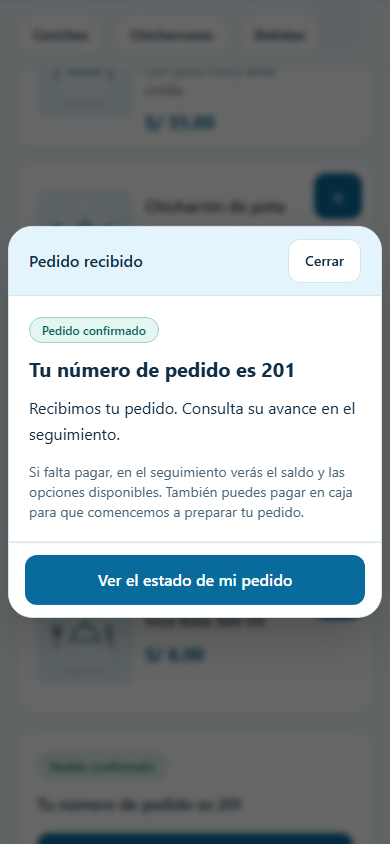
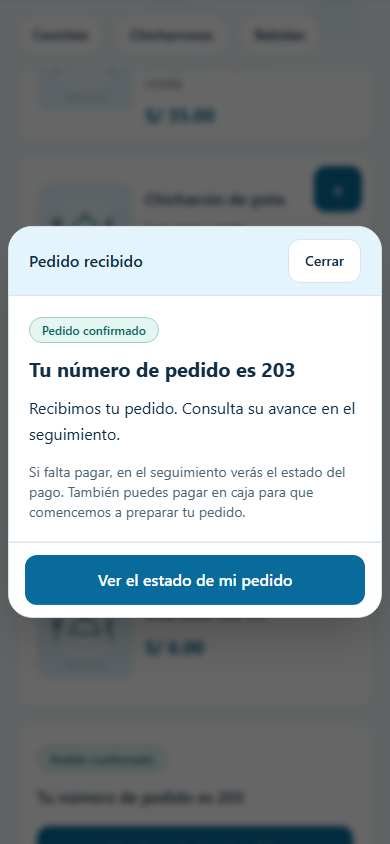
US-127: ajustar aviso de pago, foco y segundo pedido

diff --git a/tests/e2e/seguimiento-confirmacion.spec.ts b/tests/e2e/seguimiento-confirmacion.spec.ts
@@ -1,11 +1,11 @@
 import { expect } from "@playwright/test";
-import { test, prepararCarrito, pedidosPropios, TOKEN_MOSTRADOR } from "./ayuda";
+import { test, prepararCarrito, pedidosPropios, TOKEN_MOSTRADOR, TOKEN_MESA, RESTAURANTE, type EntornoPedido } from "./ayuda";
+import { StockPrueba } from "../soporte/stock-prueba";
 
 test.use({ viewport: { width: 390, height: 844 }, isMobile: true, hasTouch: true });
 
-for (const doble of [false, true]) {
-  test(`US-127: ${doble ? "dos toques" : "confirmar"} deja el seguimiento a un toque sin repetir alergias`, async ({ page, pedido }, testInfo) => {
-    pedido.alLimpiar(async () => {
+function limpiarPedidosPropios(pedido: EntornoPedido) {
+  pedido.alLimpiar(async () => {
       for (const propio of await pedidosPropios(pedido.admin, pedido.marca)) {
         if (propio.status === "CANCELLED") continue;
         const cancelacion = await pedido.admin.rpc("cambiar_estado_pedido", {
@@ -15,7 +15,12 @@ for (const doble of [false, true]) {
         expect(cancelacion.error).toBeNull();
       }
       expect((await pedidosPropios(pedido.admin, pedido.marca)).every(p => p.status === "CANCELLED")).toBe(true);
-    });
+  });
+}
+
+for (const doble of [false, true]) {
+  test(`US-127: ${doble ? "dos toques" : "confirmar"} deja el seguimiento a un toque sin repetir alergias`, async ({ page, pedido }, testInfo) => {
+    limpiarPedidosPropios(pedido);
     const carrito = await prepararCarrito(page, TOKEN_MOSTRADOR, pedido);
     const confirmar = carrito.getByRole("button", { name: "Confirmar pedido", exact: true });
     const caja = await confirmar.boundingBox();
@@ -62,5 +67,48 @@ for (const doble of [false, true]) {
       .getByText("Esperando pago. Paga en caja o con tarjeta para que comencemos a preparar tu pedido.", { exact: true })).toBeVisible();
     await expect(page.getByText("¿Alguien tiene alergias?", { exact: true })).toHaveCount(0);
     await expect.poll(async () => (await pedidosPropios(pedido.admin, pedido.marca)).length).toBe(1);
+  });
+}
+
+for (const enMesa of [false, true]) {
+  test(`US-127: cerrar la confirmación y armar otro pedido ${enMesa ? "en mesa" : "para llevar"} reinicia las alergias`, async ({ page, pedido }) => {
+    limpiarPedidosPropios(pedido);
+    const primero = await pedido.prepararStock();
+    const otro = await pedido.admin.from("products").select("id,name,categories!inner(active)")
+      .eq("restaurant_id", RESTAURANTE).eq("active", true).eq("available", true).eq("categories.active", true)
+      .neq("id", primero.id).order("price").order("id").limit(1).single();
+    expect(otro.error).toBeNull();
+    expect(otro.data).not.toBeNull();
+    const stockOtro = new StockPrueba(RESTAURANTE);
+    pedido.alLimpiar(() => stockOtro.restaurar());
+    await stockOtro.preparar(otro.data!.id, 1);
+    if (enMesa) await pedido.abrirMesa();
+    const carrito = await prepararCarrito(page, enMesa ? TOKEN_MESA : TOKEN_MOSTRADOR, pedido);
+    await carrito.getByRole("button", { name: "Sí", exact: true }).click();
+    await carrito.getByLabel("Maní", { exact: true }).check();
+    await carrito.getByLabel(/^Entiendo que la cocina/).check();
+    await carrito.getByRole("button", { name: "Confirmar pedido", exact: true }).click();
+    await expect(carrito.getByText(/^Tu número de pedido es \d+$/)).toBeVisible();
+    await expect(carrito.getByRole("group", { name: "¿Alguien tiene alergias?" })).toHaveCount(0);
+    await carrito.getByRole("button", { name: "Cerrar", exact: true }).click();
+    await expect(carrito).not.toBeVisible();
+    const seguimientoPagina = page.getByRole("link", { name: "Ver el estado de mi pedido", exact: true });
+    await expect(seguimientoPagina).toBeFocused();
+    await expect(seguimientoPagina).toBeVisible();
+    // Se arma el segundo pedido en la misma visita, sin recargar ni navegar:
+    // una recarga ocultaría un posible fallo al reiniciar el estado de alergias.
+    await page.getByRole("button", { name: `Agregar ${otro.data!.name} al carrito`, exact: true }).click();
+    await page.getByRole("button", { name: /^Ver carrito:/ }).click();
+    const nuevoCarrito = page.getByRole("dialog", { name: "Tu carrito", exact: true });
+    await expect(nuevoCarrito.getByRole("heading", { name: otro.data!.name, exact: true })).toBeVisible();
+    const alergias = nuevoCarrito.getByRole("group", { name: "¿Alguien tiene alergias?", exact: true });
+    await alergias.scrollIntoViewIfNeeded();
+    await expect(alergias).toBeVisible();
+    await expect(alergias.getByRole("button", { name: "No", exact: true })).toHaveAttribute("aria-pressed", "false");
+    await expect(alergias.getByRole("button", { name: "Sí", exact: true })).toHaveAttribute("aria-pressed", "false");
+    await expect(nuevoCarrito.getByRole("button", { name: "Confirmar pedido", exact: true })).toBeVisible();
+    await expect(nuevoCarrito.getByRole("button", { name: "Confirmar pedido", exact: true })).toBeDisabled();
+    await expect(nuevoCarrito.getByText(/^Tu número de pedido es \d+$/)).toHaveCount(0);
+    expect(await pedidosPropios(pedido.admin, pedido.marca)).toHaveLength(1);
   });
 }

diff --git a/src/features/pedidos/panel-carrito.tsx b/src/features/pedidos/panel-carrito.tsx
@@ -20,6 +20,7 @@ type Props = Omit<ComponentProps<typeof Carrito>, "enPanel"> & {
   resultado: ResultadoRegistroPedido | null;
   seguimientoHref?: string | null;
   onConfirmar: () => void;
+  onCerrarConfirmado?: () => void;
   alergia: AlergiaFormulario;
   onAlergia: (alergia: AlergiaFormulario) => void;
   // US-002: selector de modalidad y datos para llevar.
@@ -160,6 +161,9 @@ export function PanelCarrito(props: Props) {
       <dialog
         id="panel-carrito"
         ref={dialogo}
+        onClose={() => {
+          if (confirmado) props.onCerrarConfirmado?.();
+        }}
         aria-labelledby="carrito-titulo"
         className="fixed inset-x-0 top-[var(--carrito-centro,50%)] bottom-auto m-0 mx-auto max-h-[calc(var(--carrito-alto,100dvh)-1rem)] w-[calc(100%-1rem)] max-w-2xl -translate-y-1/2 overflow-hidden rounded-3xl border border-borde bg-superficie p-0 text-texto shadow-2xl backdrop:bg-black/60"
       >
@@ -185,7 +189,7 @@ export function PanelCarrito(props: Props) {
                   <p>Recibimos tu pedido. Consulta su avance en el seguimiento.</p>
                 </div>
                 <p className="text-sm text-texto-suave">
-                  Si falta pagar, en el seguimiento verás el saldo y las opciones disponibles.
+                  Si falta pagar, en el seguimiento verás el estado del pago.
                   También puedes pagar en caja para que comencemos a preparar tu pedido.
                 </p>
               </div>

diff --git a/src/features/carta/carta-interactiva.tsx b/src/features/carta/carta-interactiva.tsx
@@ -77,6 +77,7 @@ export function CartaInteractiva({
     null,
   );
   const dialogo = useRef<HTMLDialogElement>(null);
+  const enlacePedidoConfirmado = useRef<HTMLAnchorElement>(null);
 
   const [items, setItems] = useState<ItemCarrito[]>([]);
   const [enviando, setEnviando] = useState(false);
@@ -517,6 +518,7 @@ export function CartaInteractiva({
           ? `/m/${encodeURIComponent(token)}/pedido/${encodeURIComponent(claveConfirmada)}`
           : null}
         onConfirmar={confirmar}
+        onCerrarConfirmado={() => enlacePedidoConfirmado.current?.focus()}
         alergia={alergia}
         onAlergia={(valor) => cambiarOpciones(() => setAlergia(valor))}
         faltaDato={faltaDato}
@@ -553,6 +555,7 @@ export function CartaInteractiva({
 
           {claveConfirmada && (
             <BotonEnlace
+              ref={enlacePedidoConfirmado}
               href={`/m/${encodeURIComponent(token)}/pedido/${encodeURIComponent(claveConfirmada)}`}
               variante="primario"
               className="mt-4 w-full"

diff --git a/tests/unit/seguimiento-confirmacion.test.ts b/tests/unit/seguimiento-confirmacion.test.ts
@@ -29,7 +29,8 @@ describe("US-127: seguimiento después de confirmar", () => {
   it("explica dónde consultar el pago sin afirmar que el pedido está pagado", () => {
     const html = renderToStaticMarkup(createElement(PanelCarrito, props));
     expect(html).toContain("Si falta pagar");
-    expect(html).toContain("saldo y las opciones disponibles");
+    expect(html).toContain("estado del pago");
+    expect(html).not.toContain("verás el saldo");
     expect(html).toContain("pagar en caja");
   });
 

diff --git a/docs/pruebas/evidencias/us127-validacion.md b/docs/pruebas/evidencias/us127-validacion.md
@@ -11,13 +11,16 @@ usa el token y la misma clave de idempotencia del pedido confirmado para abrir
 `/m/[token]/pedido/[clave]` a un toque, sin cerrar antes el carrito ni buscarlo con scroll.
 
 La vista de éxito no muestra modalidad, productos ni preguntas de alergias del pedido
-ya enviado. Indica que el seguimiento permite consultar el saldo y las opciones de
-pago, y que también se puede pagar en caja. La página existente conserva la línea de
+ya enviado. Indica que el seguimiento permite consultar el estado del pago y que
+también se puede pagar en caja. No promete mostrar un saldo cuando no hay medios
+de pago configurados. La página existente conserva la línea de
 tiempo de US-092 y su mensaje de pago pendiente.
 
 Se mantienen **Cerrar** y el enlace exterior para el recorrido anterior. Agregar desde
 el detalle sigue dejándolo abierto; no se reintroduce la apertura automática del carrito.
 Se retiró el prop `dialogoRef` sin consumidores; el carrito conserva su referencia interna.
+Al cerrar la vista de éxito, el foco pasa al enlace de seguimiento de la tarjeta
+exterior, en lugar de intentar volver al botón Ver carrito que ya no existe.
 
 ## Criterios y resultados
 
@@ -28,6 +31,8 @@ Se retiró el prop `dialogoRef` sin consumidores; el carrito conserva su referen
 | No repetir alergias | Unitaria y E2E: formulario ausente tras confirmar y en seguimiento | Aprobado |
 | Mostrar cómo pagar si falta | Unitaria: orientación en la confirmación; E2E: Esperando pago e instrucciones de caja/tarjeta en el ticket existente | Aprobado; sin ejecutar pagos |
 | Evitar duplicados | E2E: dos toques reales consecutivos, exactamente un pedido antes y después de navegar | Aprobado |
+| Foco al cerrar la confirmación | E2E: Cerrar devuelve el foco al enlace exterior de seguimiento, visible en la página | Aprobado en mesa y para llevar |
+| Segundo pedido en la misma visita | E2E: agregar otro plato sin recargar, abrir carrito, alergias sin respuesta y Confirmar visible/deshabilitado | Aprobado en mesa y para llevar |
 
 ## Validaciones finales
 
@@ -35,9 +40,11 @@ Se retiró el prop `dialogoRef` sin consumidores; el carrito conserva su referen
 - `npm run typecheck`: aprobado.
 - `npm test`: **1445/1445**, 90 archivos; cuatro casos nuevos de US-127.
 - `npm run build`: aprobado, restaurando la compilación con la configuración habitual.
-- Playwright, solo `tests/e2e/seguimiento-confirmacion.spec.ts`: **2/2** en Chromium,
-  confirmación normal y doble toque. Ambos revisan **360×640, 390×844 y 1440×900**.
-- No se editaron pruebas existentes ni `tests/e2e/ayuda.ts`.
+- Playwright, solo `tests/e2e/seguimiento-confirmacion.spec.ts`: **4/4** en Chromium.
+  Confirmación normal y doble toque revisan **360×640, 390×844 y 1440×900**.
+  Los dos casos del segundo pedido, mesa y para llevar, se ejecutan a **390×844**.
+- Se actualizó la comprobación del texto de pago de US-127 y se amplió su E2E.
+  No se modificaron pruebas de otras historias ni `tests/e2e/ayuda.ts`.
 
 La primera ejecución detectó un selector ambiguo del mensaje de pago (aparece en el
 anuncio accesible y en el ticket); el selector de la prueba nueva se acotó al ticket.
@@ -46,7 +53,25 @@ cancelación, aunque la captura mostraba el pedido cancelado. Las pruebas nuevas
 usan el mecanismo `alLimpiar` existente para cancelar sus propios pedidos mediante
 `cambiar_estado_pedido`, con el usuario normal autenticado, verifican `CANCELLED` y
 dejan que el fixture existente restaure el stock. Las dos ejecuciones finales de la
-selección E2E terminaron en verde; la última incluye los tres tamaños y las capturas.
+selección E2E inicial terminaron en verde. Tras la revisión se ejecutó la selección
+ampliada con cuatro casos, también en verde, y se actualizaron las capturas.
+
+## Revisión de US-127
+
+El equipo comunicó que el E2E completo del PR anterior terminó con 23 aprobadas,
+0 fallidas y 1 omitida. Ese resultado es comunicado, no una ejecución completa
+repetida en esta máquina después de estos ajustes.
+
+Se corrigieron tres observaciones: mensaje neutral sobre el estado de pago,
+retorno de foco al cerrar la confirmación y cobertura del segundo carrito en la
+misma visita. El primer pedido declara alergia Sí; después de cerrar la confirmación
+se agrega otro producto sin navegar ni recargar. Las respuestas No/Sí aparecen
+sin seleccionar, no queda el mensaje de éxito anterior y Confirmar vuelve a estar
+deshabilitado hasta completar los datos. No se registra ese segundo pedido.
+
+La variante en mesa abre y cierra exclusivamente la sesión creada por el fixture
+en Supabase local. Los pedidos propios se cancelan y se restauran los stocks de
+los dos productos usados por cada caso.
 
 ## Entorno y límites
 

diff --git a/docs/pruebas/matriz-trazabilidad.md b/docs/pruebas/matriz-trazabilidad.md
@@ -112,7 +112,7 @@ Asignación y títulos confirmados por el equipo para Sprint 3 (30/10–01/11/20
 
 | Historia | Título | Responsable | Archivo(s)/caso(s) | Nivel | Cantidad | Resultado | Evidencia |
 |---|---|---|---|---|---|---|---|
-| US-127 | Ir al seguimiento después de confirmar el pedido | Erick | `tests/unit/seguimiento-confirmacion.test.ts`; `tests/e2e/seguimiento-confirmacion.spec.ts` | Unitaria / E2E Chromium con Supabase local | 4 unitarios propios; 2 E2E, cada uno a 360×640, 390×844 y 1440×900 | Aprobado: acceso a un toque sin scroll, línea de tiempo existente, orientación de pago, sin repetir alergias y doble toque con un solo pedido. Suite 1445/1445; lint, tipos y build aprobados. Sin migración ni cambios en la base compartida | [Validación US-127](evidencias/us127-validacion.md) |
+| US-127 | Ir al seguimiento después de confirmar el pedido | Erick | `tests/unit/seguimiento-confirmacion.test.ts`; `tests/e2e/seguimiento-confirmacion.spec.ts` | Unitaria / E2E Chromium con Supabase local | 4 unitarios propios; 4 E2E: dos de seguimiento a 360×640, 390×844 y 1440×900; dos de segundo carrito a 390×844, mesa y para llevar | Aprobado: seguimiento a un toque, línea de tiempo existente, texto neutral sobre pago, foco al enlace exterior al cerrar, alergias reiniciadas para un segundo pedido sin recargar y doble toque con un solo registro. Suite 1445/1445; lint, tipos y build aprobados. Sin migración ni cambios en la base compartida. Validado en Chromium con viewport móvil; no probado en celular físico | [Validación US-127](evidencias/us127-validacion.md) |
 
 ## Actualización al cerrar una historia
 
